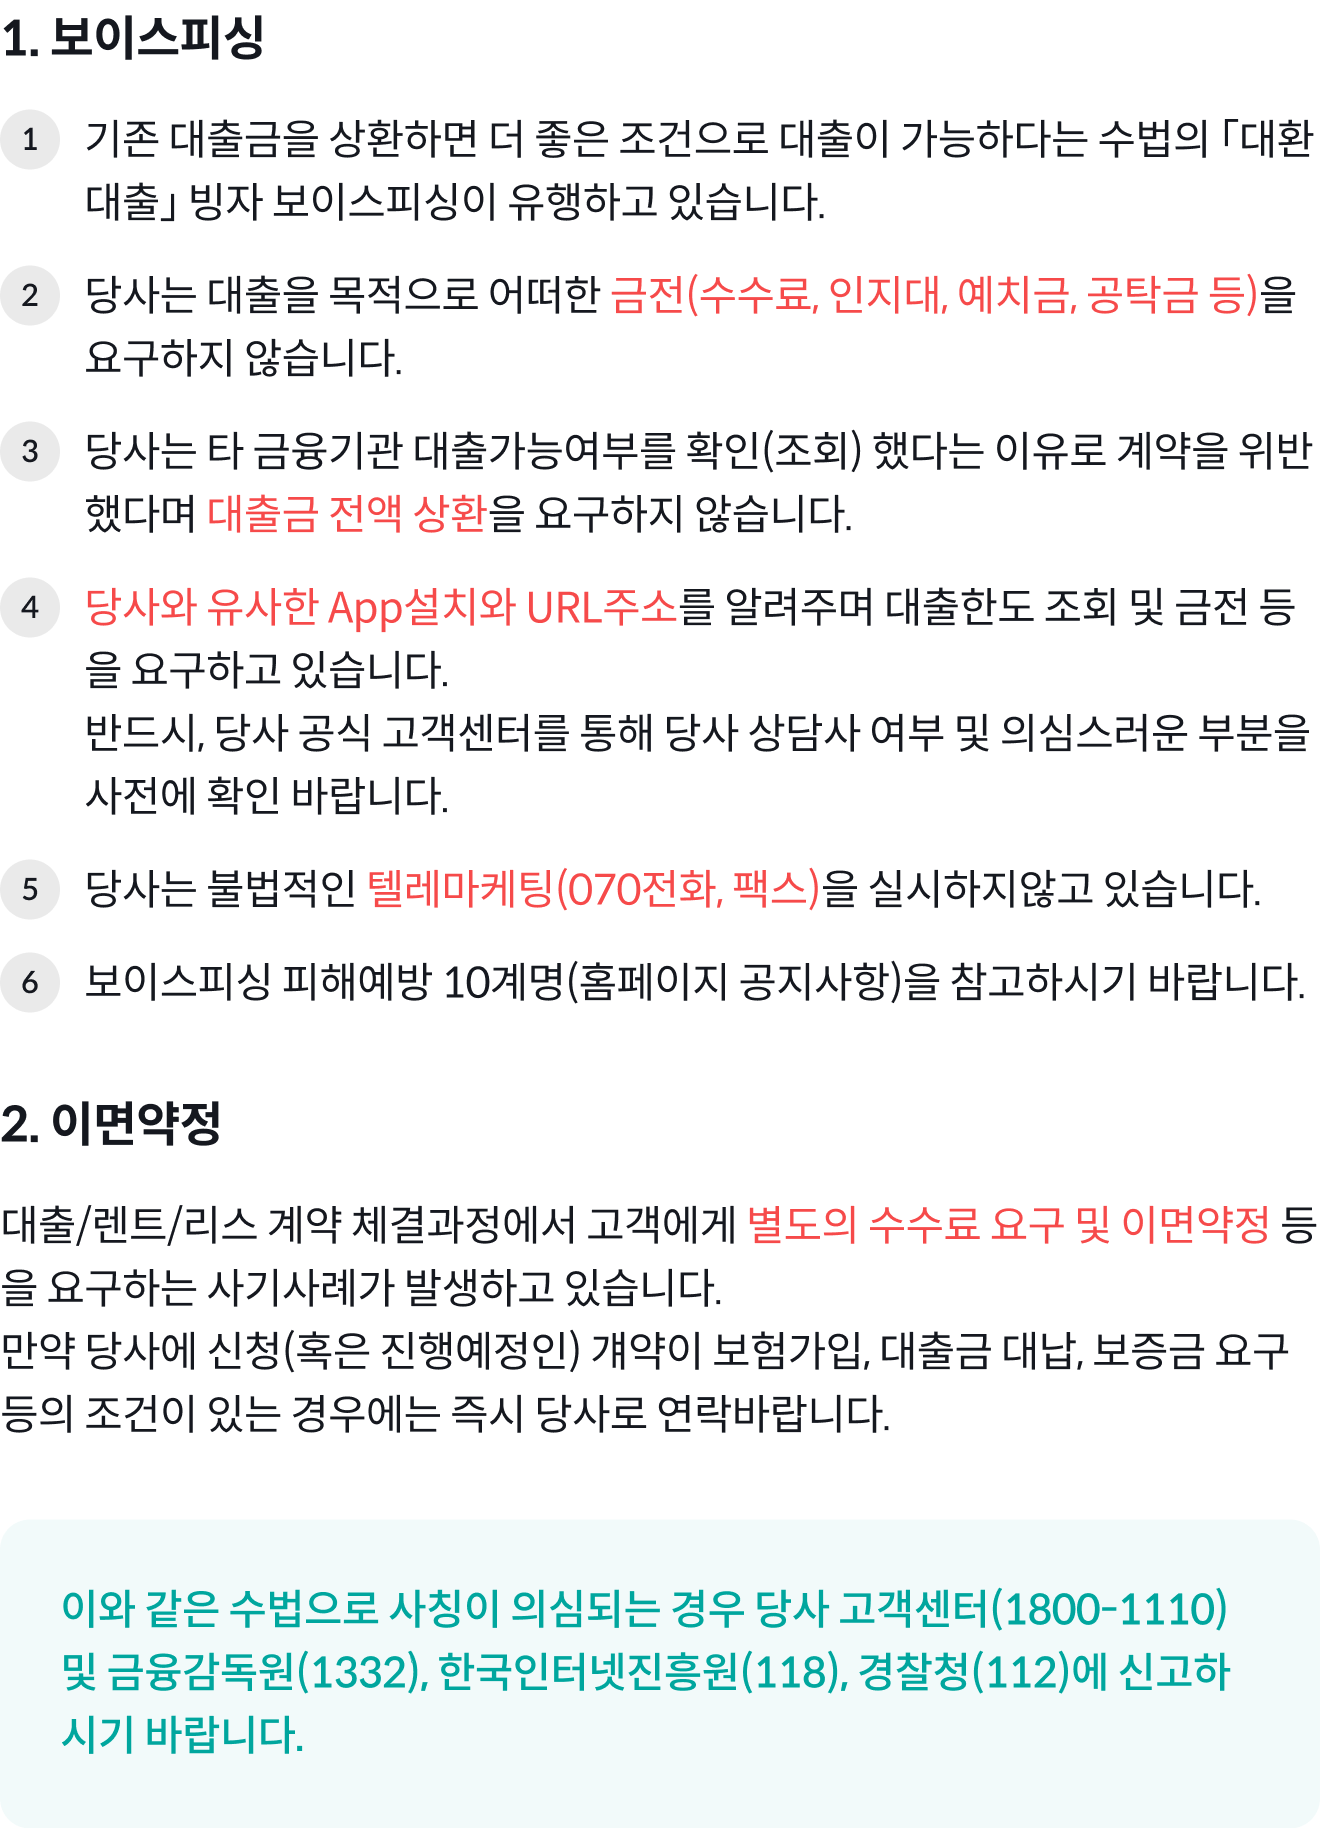
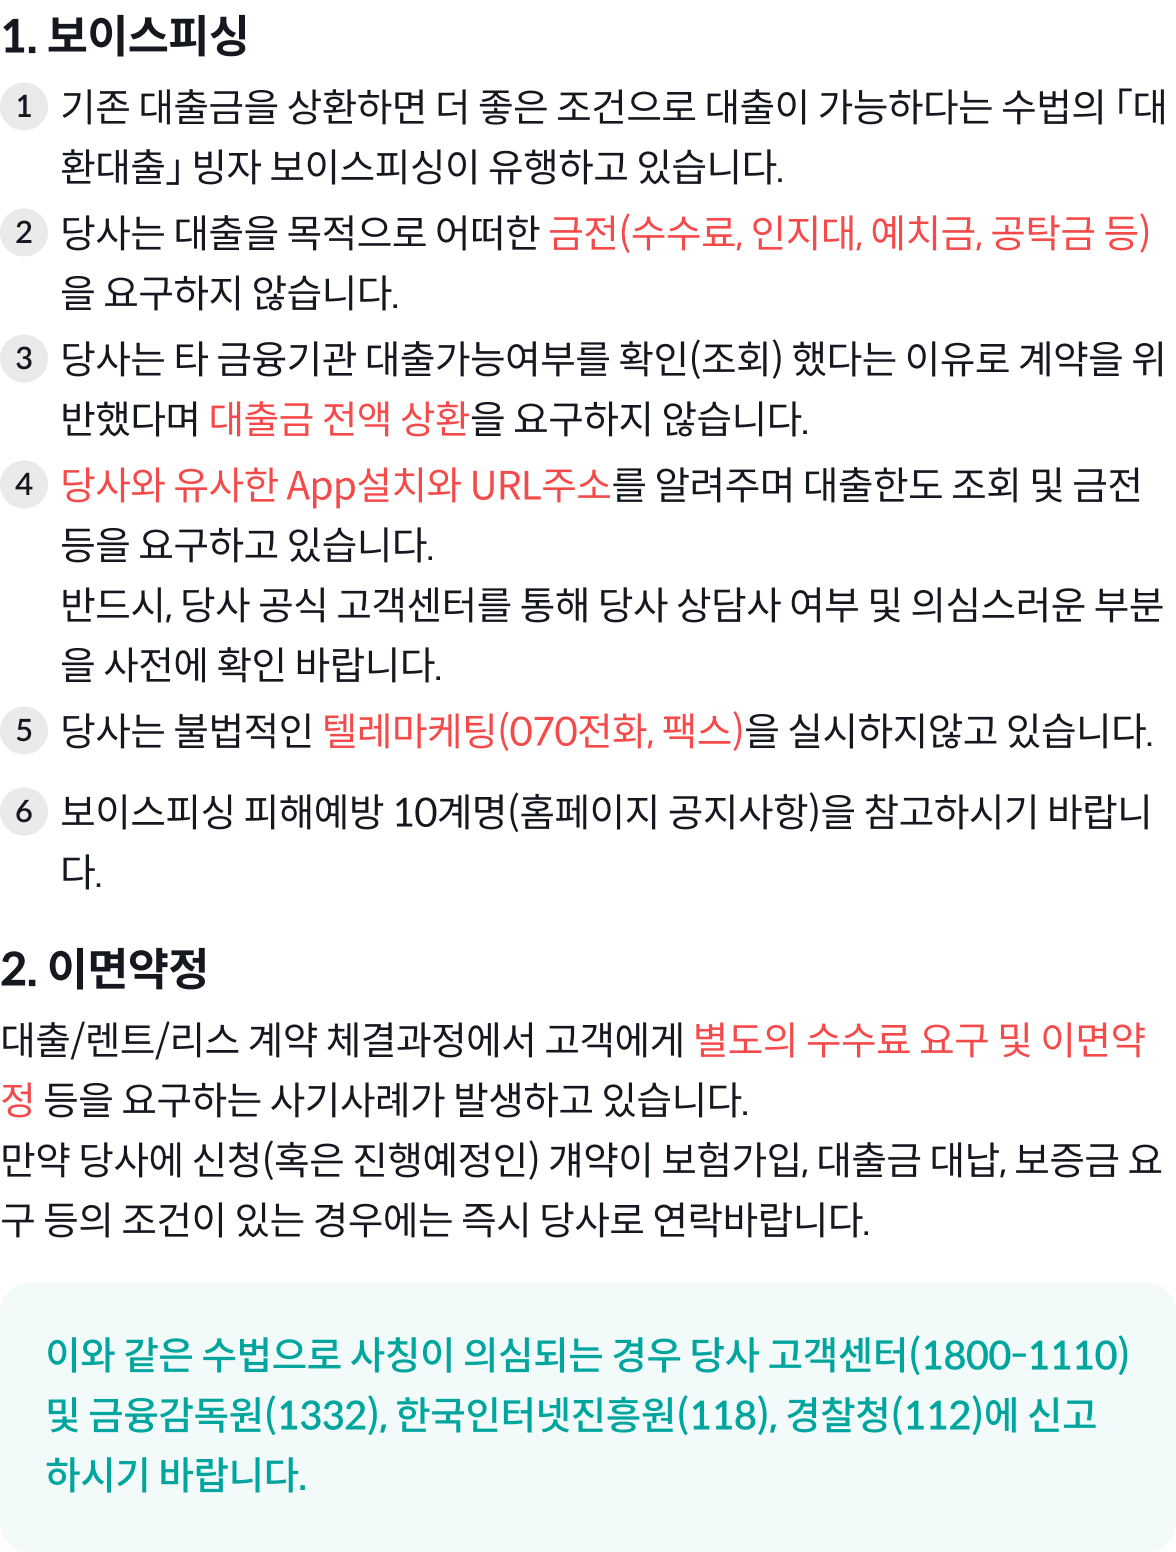
안내문 팝업 수정

diff --git a/src/views/main/Main_P01_l002.vue b/src/views/main/Main_P01_l002.vue
@@ -2,18 +2,14 @@
 // Main_P01_l002
 import { ref } from 'vue';
 
-import UiLayerMain from '@/components/ui/layer/UiLayerMain.vue';
 import PopupTitle from '@/components/ui/layer/PopupTitle.vue';
-import PopupButton from '@/components/ui/layer/PopupButton.vue';
 import ModalPopup from '@/components/ui/layer/ModalPopup.vue';
 import ModalPopupHead from '@/components/ui/layer/ModalPopupHead.vue';
 import TextButton from '@/components/ui/button/TextButton.vue';
 
 export default {
   components: {
-    UiLayerMain,
     PopupTitle,
-    PopupButton,
     ModalPopup,
     ModalPopupHead,
     TextButton,
@@ -29,13 +25,10 @@ export default {
 </script>
 
 <template>
-  <UiLayerMain ref="layer" v-slot="layerSlotProps">
+  <div :class="$style['popup']">
     <ModalPopup line="secondary">
       <template v-slot:head>
         <ModalPopupHead>
-          <template v-slot:right>
-            <PopupButton @click="layerSlotProps.close()" />
-          </template>
           <PopupTitle>금융사기 피해예방 안내문</PopupTitle>
         </ModalPopupHead>
       </template>
@@ -45,17 +38,31 @@ export default {
       </div>
 
       <template v-slot:bgBottom>
-        <TextButton
-          :underline="true"
-          :classNames="{
-            wrap: 'text-body-3 color-white',
-          }"
-        >
-          오늘 하루 보지 않기
-        </TextButton>
+        <div class="flex-box">
+          <div class="flex-box__cell flex-1">
+            <TextButton
+              :underline="true"
+              :classNames="{
+                wrap: 'text-body-3 color-white',
+              }"
+            >
+              오늘 하루 보지 않기
+            </TextButton>
+          </div>
+          <div class="flex-box__cell">
+            <TextButton
+              :underline="true"
+              :classNames="{
+                wrap: 'text-title-2 color-white',
+              }"
+            >
+              닫기
+            </TextButton>
+          </div>
+        </div>
       </template>
     </ModalPopup>
-  </UiLayerMain>
+  </div>
 </template>
 
 <style lang="scss" module>

diff --git a/src/views/uiGuide/GuideMain001.vue b/src/views/uiGuide/GuideMain001.vue
@@ -7,7 +7,6 @@ import ButtonList from '@/components/ui/button/ButtonList.vue';
 import ButtonListItem from '@/components/ui/button/ButtonListItem.vue';
 
 import Main_P01_l001 from '@/views/main/Main_P01_l001.vue';
-import Main_P01_l002 from '@/views/main/Main_P01_l002.vue';
 
 export default {
   components: {
@@ -16,24 +15,17 @@ export default {
     ButtonList,
     ButtonListItem,
     Main_P01_l001,
-    Main_P01_l002,
   },
   setup() {
     const layer001 = ref(null);
-    const layer002 = ref(null);
 
     const layer001Open = (e = {}) => {
       layer001.value.layer.open(e.target);
     };
-    const layer002Open = (e = {}) => {
-      layer002.value.layer.open(e.target);
-    };
 
     return {
       layer001,
-      layer002,
       layer001Open,
-      layer002Open,
     };
   },
 };
@@ -52,14 +44,8 @@ export default {
           공지팝업<br />Main_P01_l001
         </BasicButton>
       </ButtonListItem>
-      <ButtonListItem>
-        <BasicButton @click="layer002Open">
-          금융사기피해예방 안내문<br />Main_P01_l002
-        </BasicButton>
-      </ButtonListItem>
     </ButtonList>
 
     <Main_P01_l001 ref="layer001" />
-    <Main_P01_l002 ref="layer002" />
   </PageContents>
 </template>

diff --git a/src/views/uiGuide/GuideIndex.vue b/src/views/uiGuide/GuideIndex.vue
@@ -365,14 +365,6 @@ const datas = () => [
             date: '2023.09.05',
             text: 'Main_P01_l001 슬라이드 기능 추가',
           },
-          {
-            date: '2023.10.19',
-            text: '팝업 추가\n- Main_P01_l002',
-          },
-          {
-            date: '2023.10.25',
-            text: 'Main_P01_l002 팝업 배경 제거',
-          },
         ],
       },
       {
@@ -422,6 +414,17 @@ const datas = () => [
             text: '메인 배너 이미지 교체',
           },
         ],
+      },
+      {
+        depth2: '홈\nMain_P01_p001',
+        depth3: '팝업\nMain_P01_l002',
+        depth4: '',
+        depth5: '',
+        depth6: '',
+        path: '/main/home_popup',
+        status: 'end',
+        create: '2023.10.26',
+        log: [],
       },
     ],
   },

diff --git a/src/assets/scss/components/ui/layer/UiLayerMain.scss b/src/assets/scss/components/ui/layer/UiLayerMain.scss
@@ -1,6 +1,6 @@
 .layer {
-  display: none;
-  opacity: 0;
+  display: block;
+  opacity: 1;
   position: fixed;
   top: 0;
   left: 0;
@@ -39,21 +39,5 @@
   &--opened {
     display: block;
     opacity: 1;
-  }
-
-  &--type {
-    &-full {
-      background-color: transparent;
-
-      &::before {
-        display: none;
-      }
-
-      .layer__container {
-        display: block;
-        width: 100%;
-        height: 100%;
-      }
-    }
   }
 }

diff --git a/src/assets/scss/components/ui/layer/ModalPopup.scss b/src/assets/scss/components/ui/layer/ModalPopup.scss
@@ -19,8 +19,7 @@
 
   &__bg-bottom {
     flex: none;
-    text-align: right;
-    padding: 17px 27px;
+    padding: 14px 24px;
     background-color: #00a69e;
     border-bottom-left-radius: 15px;
     border-bottom-right-radius: 15px;
@@ -244,6 +243,7 @@
 
   &--line {
     &-secondary {
+      width: 440px;
       border: 2px solid #00a69e;
       border-radius: 20px;
     }

diff --git a/src/router/_publish_routes.js b/src/router/_publish_routes.js
@@ -258,6 +258,13 @@ const routes = [
     component: () => import('@/views/main/MainHome.vue'),
   },
 
+  {
+    path: '/main/home_popup',
+    name: '/main/home_popup',
+    component: () => import('@/views/main/Main_P01_l002.vue'),
+    meta: { layout: 'NoneLayout' },
+  },
+
   // identification
   {
     path: '/identification/Common_P00_p003',

diff --git a/src/assets/scss/views/main/Main_P01_l002.scss b/src/assets/scss/views/main/Main_P01_l002.scss
@@ -1,1 +1,8 @@
 @import '@/assets/scss/components/import/image-view.scss';
+
+.popup {
+  position: absolute;
+  top: 200px;
+  left: 220px;
+  z-index: 999;
+}
